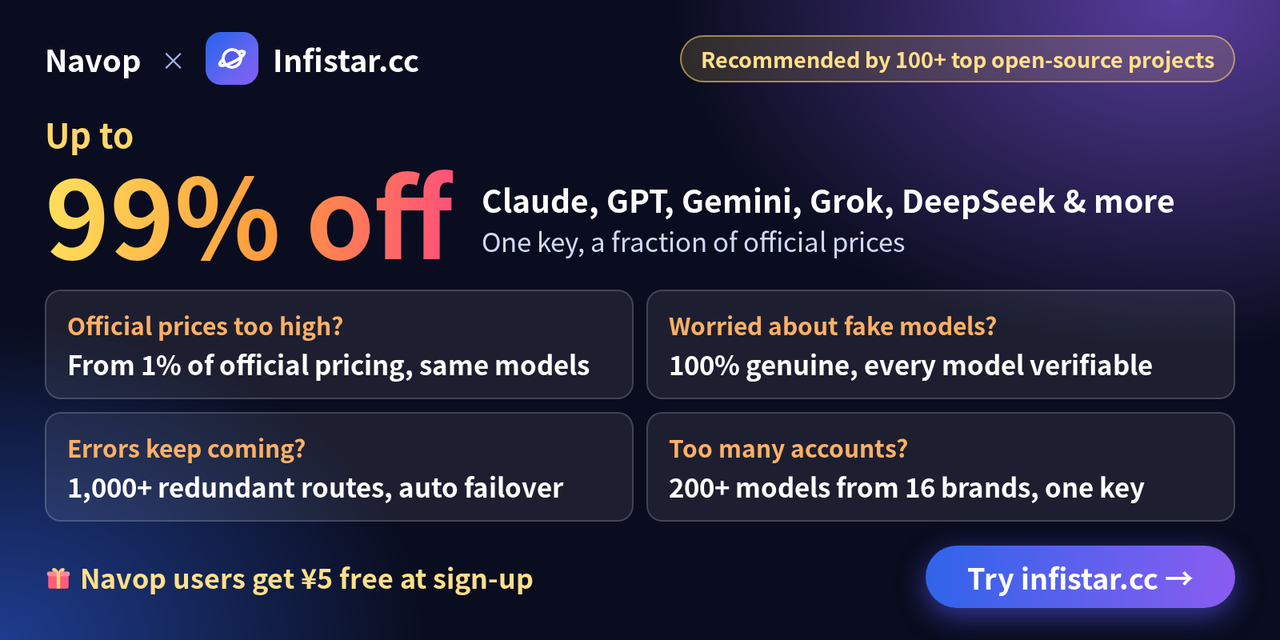
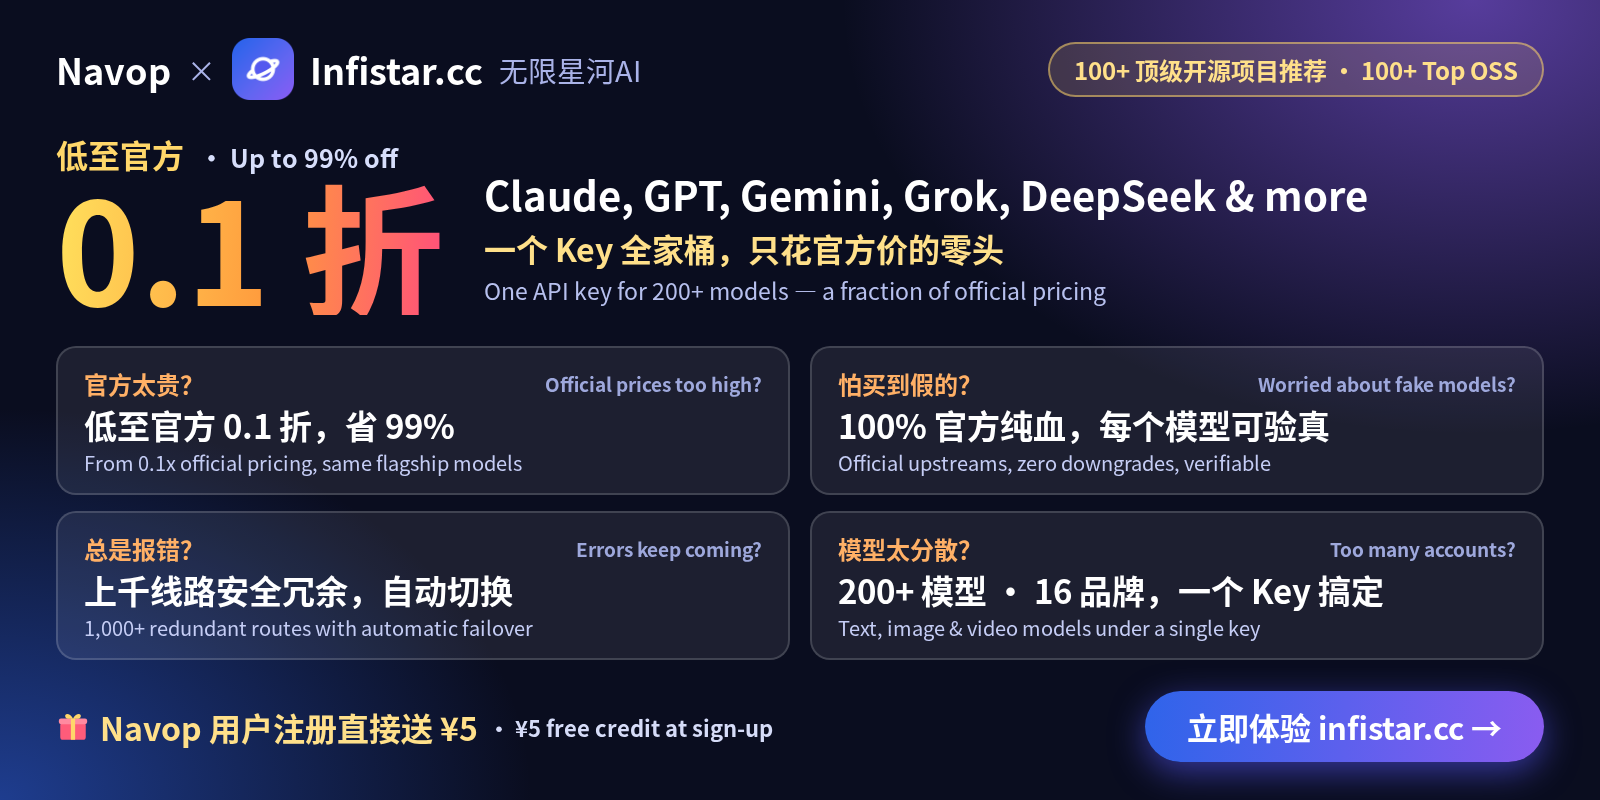
docs: 更新英文 README 的 Infistar 赞助横幅与文案
英文页横幅由纯英文版（1280×640）换为中英结合版 2:1 图（1600×800），
图下文案同步替换为 Infistar 提供的「总述 + 三条要点」结构，与邮件核对版一致。
中文页及 navop-infistar-zh.png 保持不变。

diff --git a/README.md b/README.md
@@ -64,7 +64,12 @@
       </a>
     </td>
     <td>
-      Navop × Infistar.cc | Use one API key for Claude, GPT, Gemini, Grok, DeepSeek, and more in Navop’s SQL generation and AI chat. Save up to 99% off official pricing, with all models coming from verifiable official channels. Choose from 200+ models across 16 brands, backed by 1,000+ redundant routes and automatic failover. <a href="https://www.infistar.cc/register?aff=TKUN9HBM&amp;ref_source=link">Sign up through Navop’s link and get CNY 5 in trial credit</a>.
+      Navop × Infistar.cc | Use one API key for Claude, GPT, Gemini, Grok, DeepSeek, and more in Navop’s SQL generation and AI chat.
+      <ul>
+        <li>Save up to 99% off official pricing. All models come from official channels and can be verified.</li>
+        <li>200+ models from 16 brands, with 1,000+ redundant routes and automatic failover.</li>
+        <li><a href="https://www.infistar.cc/register?aff=TKUN9HBM&amp;ref_source=link">Sign up through Navop’s link and get CNY 5 in trial credit</a></li>
+      </ul>
     </td>
   </tr>
 </table>
